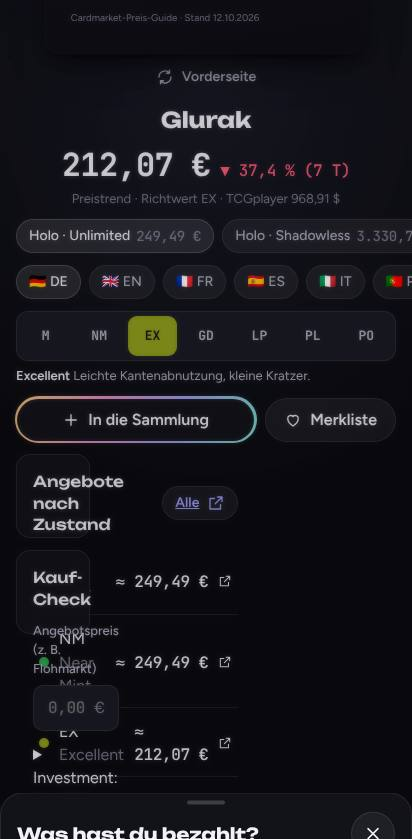
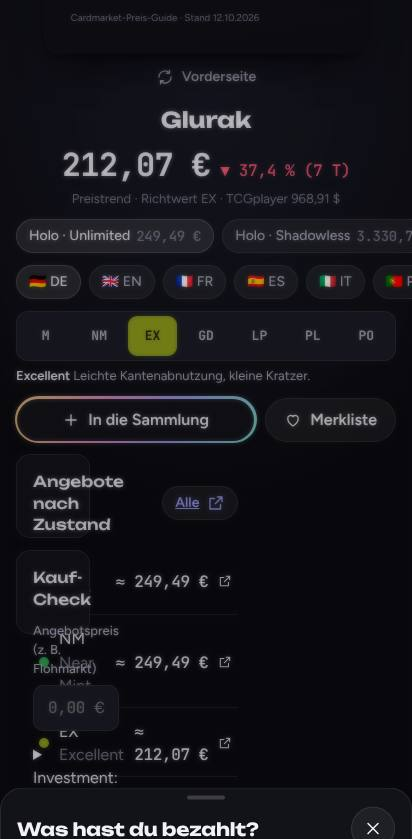
Test: Einstellungen-Knopf im Binder eindeutig ansprechen
Claude-Session: https://claude.ai/code/session_01K4Q25ryp5Dj6uwD6p2Eg9J

diff --git a/e2e/smoke.spec.ts b/e2e/smoke.spec.ts
@@ -71,7 +71,7 @@ test('Rückgängig nach dem Hinzufügen entfernt den Posten wieder', async ({ pa
 
 test('Einstellungen: Backup exportieren und wieder importieren', async ({ page }) => {
   await page.goto('./?view=collection');
-  await page.getByRole('button', { name: 'Einstellungen' }).click();
+  await page.getByRole('region', { name: 'Binder' }).getByRole('button', { name: 'Einstellungen' }).click();
   await expect(page.getByRole('dialog', { name: 'Einstellungen' })).toBeVisible();
   await page.waitForTimeout(500);
   await expectNoOverflow(page, '.sheet');
